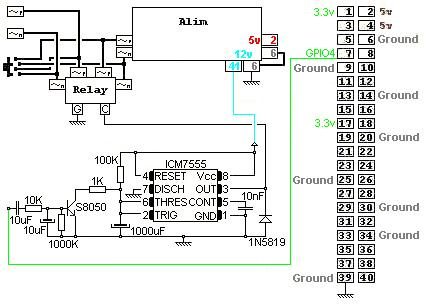
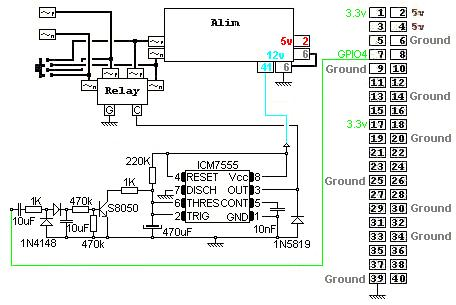
Gpio residual voltage on shutdown

Changed region(s): [[0.0, 0.0, 1.0, 1.0], [0.3967, 0.059, 0.5493, 0.0885]]

diff --git a/index.js b/index.js
@@ -56,34 +56,39 @@ var powerOffIntervalId	= 0;
 var counterFD		= 0;
 var exec		= require('child_process').exec;
 var wpi; if(!DUMMY){wpi	= require('wiring-pi'); wpi.setup('wpi');}
-var powerOn		= /*setInterval(*/function(){
-	if(initHardware()){
+var powerOn		= setInterval(function(){
+	resetShutdown();
+	if( (init=initHardware()) ){
 		console.log(Date()+': Hardware connected...');
-		init=true; clearInterval(powerOn);
-	} resetShutdown();
-	return init;
-}/*, 5000)*/; powerOn = powerOn();
+		clearInterval(powerOn); powerOn=true;
+	}
+}, 5000);
 
 function initHardware(){
  if(!DUMMY){
-	if((counterFD=wpi.mcp23017Setup(65, 0x20))<0)		// pin 15:17 to ground=0x20
-								return false;
-console.log( 'counterFD=' + counterFD );
-	if(wpi.wiringPiI2CWriteReg8(counterFD, 0x0a, 0x80)<0)	// set 16 bits mode
-								return false;
-	if(wpi.wiringPiI2CWriteReg16(counterFD, 0x00, 0xffff)<0)// set all pins as INPUT
-								return false;
-	if(wpi.wiringPiI2CWriteReg16(counterFD, 0x0c, 0xf000)<0)// set pullup on 4 disconnected HSBits
-								return false;
 	if(wpi.pinMode(powerPin, wpi.OUTPUT)<0
 		|| wpi.pinMode(motorPin, wpi.PWM_OUTPUT)<0)	return false;
-	wpi.pwmWrite(motorPin, 0); wpi.digitalWrite(powerPin, 0); // Power On...
+	wpi.pwmWrite(motorPin, 0); wpi.digitalWrite(powerPin, 0);
+
+	// MCP23017 setup:
+	if((counterFD=wpi.wiringPiI2CSetup(0x20))<0)		// pin 15:17 to ground=0x20
+								return false;
+	if(wpi.wiringPiI2CWriteReg8(counterFD, 0x0a, 0x20)<0){	// set 16 bits mode
+						wiringPiI2CClose(counterFD);
+								return false;}
+	if(wpi.wiringPiI2CWriteReg16(counterFD, 0x00, 0xffff)<0){// set all pins as INPUT
+						wiringPiI2CClose(counterFD);
+								return false;}
+	if(wpi.wiringPiI2CWriteReg16(counterFD, 0x0c, 0xf000)<0	// set pullup on 4 disconnected HSBits
+	|| wpi.wiringPiI2CWriteReg16(counterFD, 0x01, 0xf000)<0){// and set them to 0
+						wiringPiI2CClose(counterFD);
+								return false;}
        	setInterval(function(){
 		if(powerOn) wpi.digitalWrite(powerPin, 1);
 		setTimeout(function(){wpi.digitalWrite(powerPin, 0);}, 500);
 
 		wpi.digitalWrite(enableCounterPin, 0);
-		currentSpeed = 0x10ff & wpi.wiringPiI2CReadReg16(counterFD, 0x12);
+		currentSpeed = /*0x0fff & */wpi.wiringPiI2CReadReg16(counterFD, 0x12);
 		wpi.digitalWrite(resetCounterPin, 0);
               	currentSpeed = Math.round(currentSpeed*3600/formFactor/100)/10;
 		wpi.digitalWrite(resetCounterPin, 1); wpi.digitalWrite(enableCounterPin, 1);

diff --git a/README.md b/README.md
@@ -11,11 +11,11 @@ Software:
 
 ![](doc/images/programSetting.png)
 
-* click on the chrono to select a program,
+* click on the chrono to select a program (duration, distance or custom program),
 * close the popup of the bargraph to launch the program,
 * a program can be modified or replaced during a run,
-* click on a bar to grow it,
-* click below the bar to make it decrease,
+* click on a bar to grow it (increase the speed),
+* click below the bar to reduce it (decrease the speed),
 * other custom programs can be created at will.
 
 Hardware:
